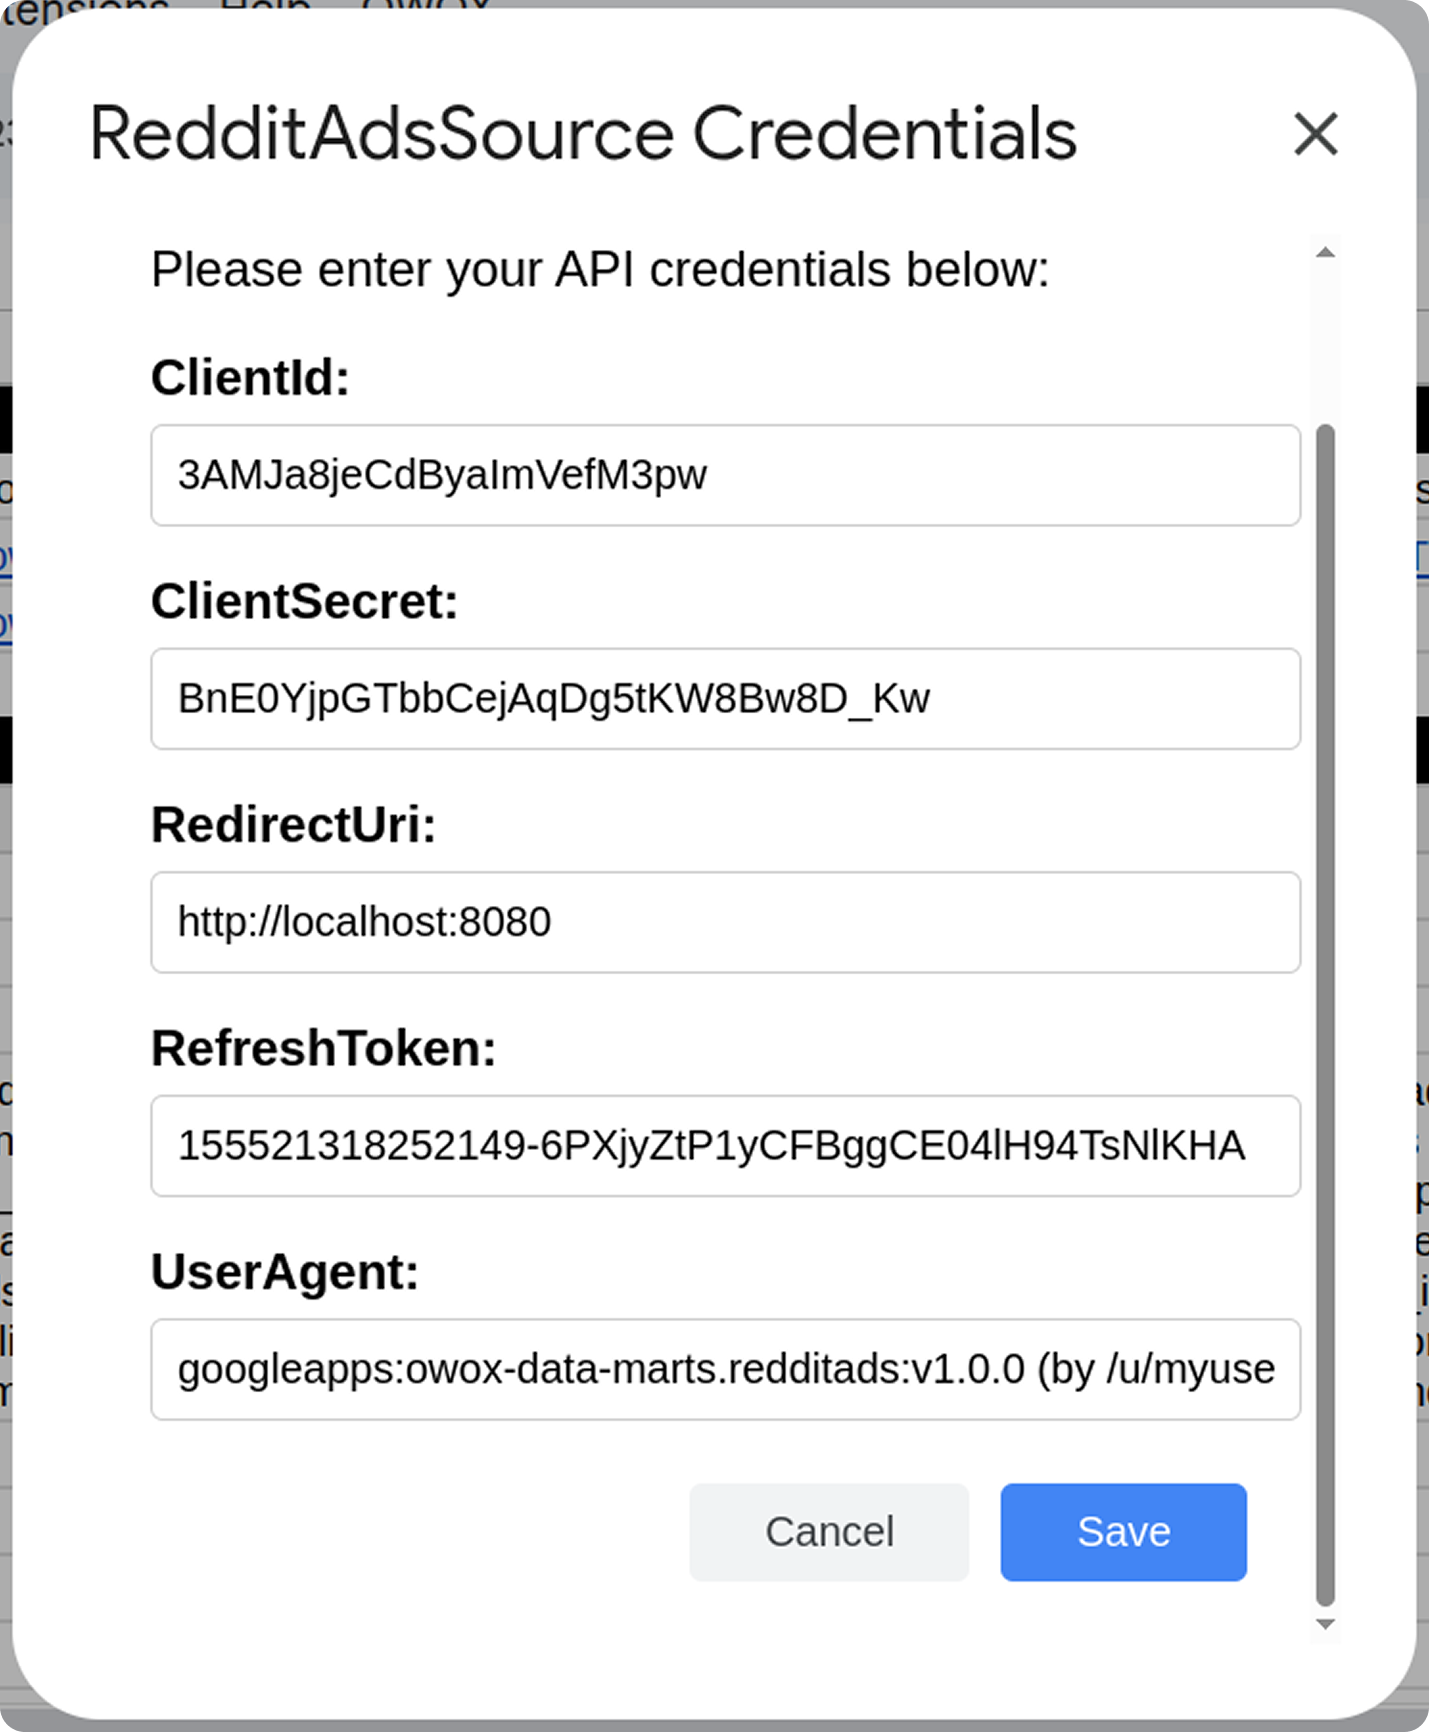
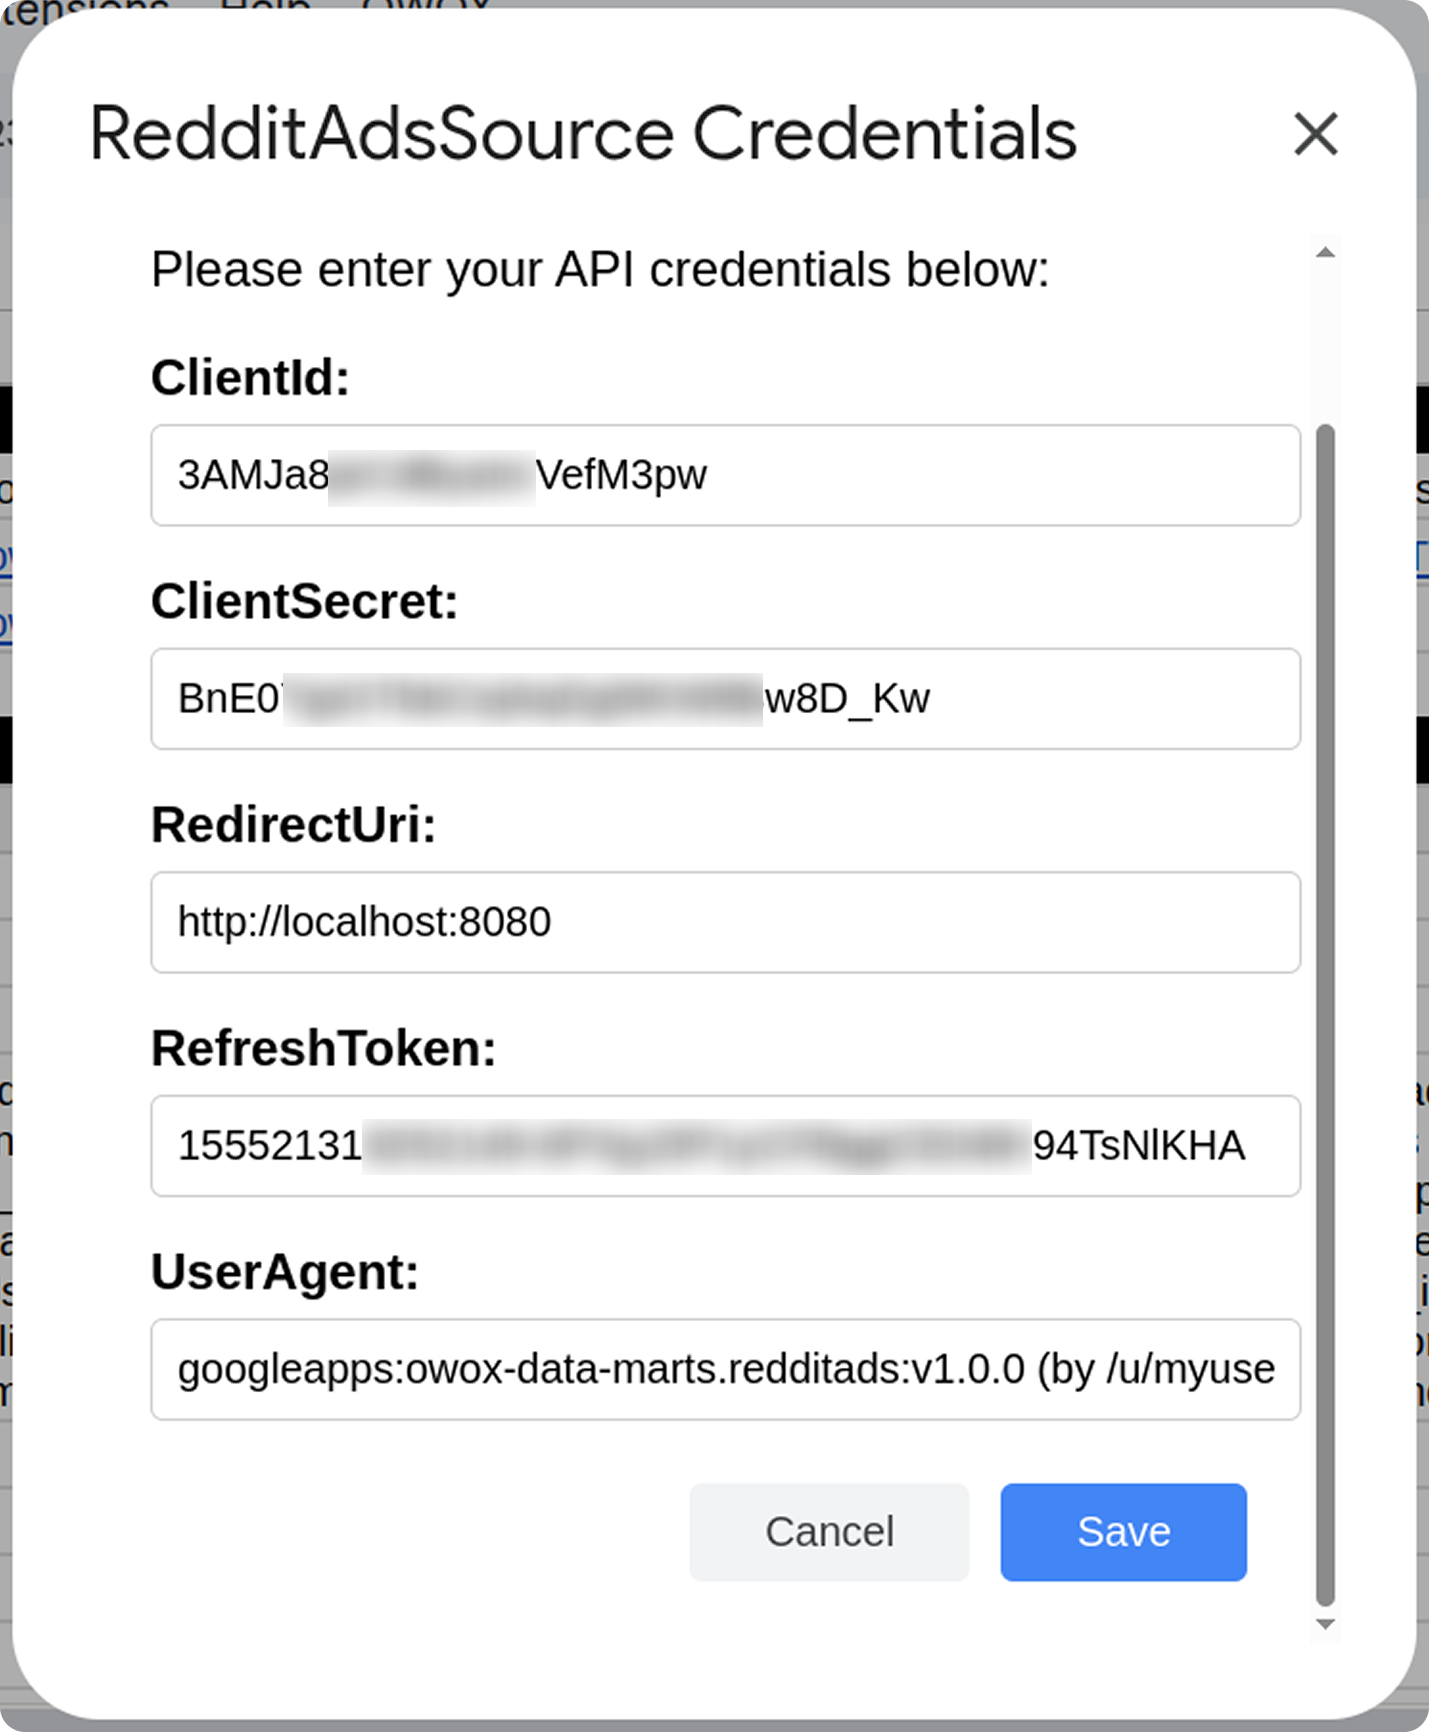
docs(reddit): update credentials and getting started documentation; add info about User-Agent and refine BigQuery instructions (#213)

Changed region(s): [[0.2463, 0.6236, 0.739, 0.6859], [0.1847, 0.3741, 0.5542, 0.4365], [0.2155, 0.2494, 0.3695, 0.3118]]

diff --git a/packages/connectors/src/Sources/RedditAds/GETTING_STARTED.md b/packages/connectors/src/Sources/RedditAds/GETTING_STARTED.md
@@ -9,8 +9,8 @@ Fill in required parameters:
 - **Start Date**
 - **Account IDs**
 - **Fields**
-- **Destination Dataset ID:** (Applicable only for the **Google BigQuery** template)
-- **Destination Location:** (Applicable only for the **Google BigQuery** template)
+- **Destination Dataset ID** (applicable only for the **Google BigQuery** template)
+- **Destination Location** (applicable only for the **Google BigQuery** template)
 
 The import will begin from the selected **Start Date**.  
 > ⚠ **Note:** Choosing a long date range may result in import failure due to high data volume.

diff --git a/packages/connectors/src/Sources/RedditAds/CREDENTIALS.md b/packages/connectors/src/Sources/RedditAds/CREDENTIALS.md
@@ -114,5 +114,6 @@ You now have:
 - **Client Secret**
 - **Redirect URI**
 - **Refresh Token**
+- **User-Agent**
 
 You can now use these credentials as described in the [Getting Started guide](GETTING_STARTED.md).
